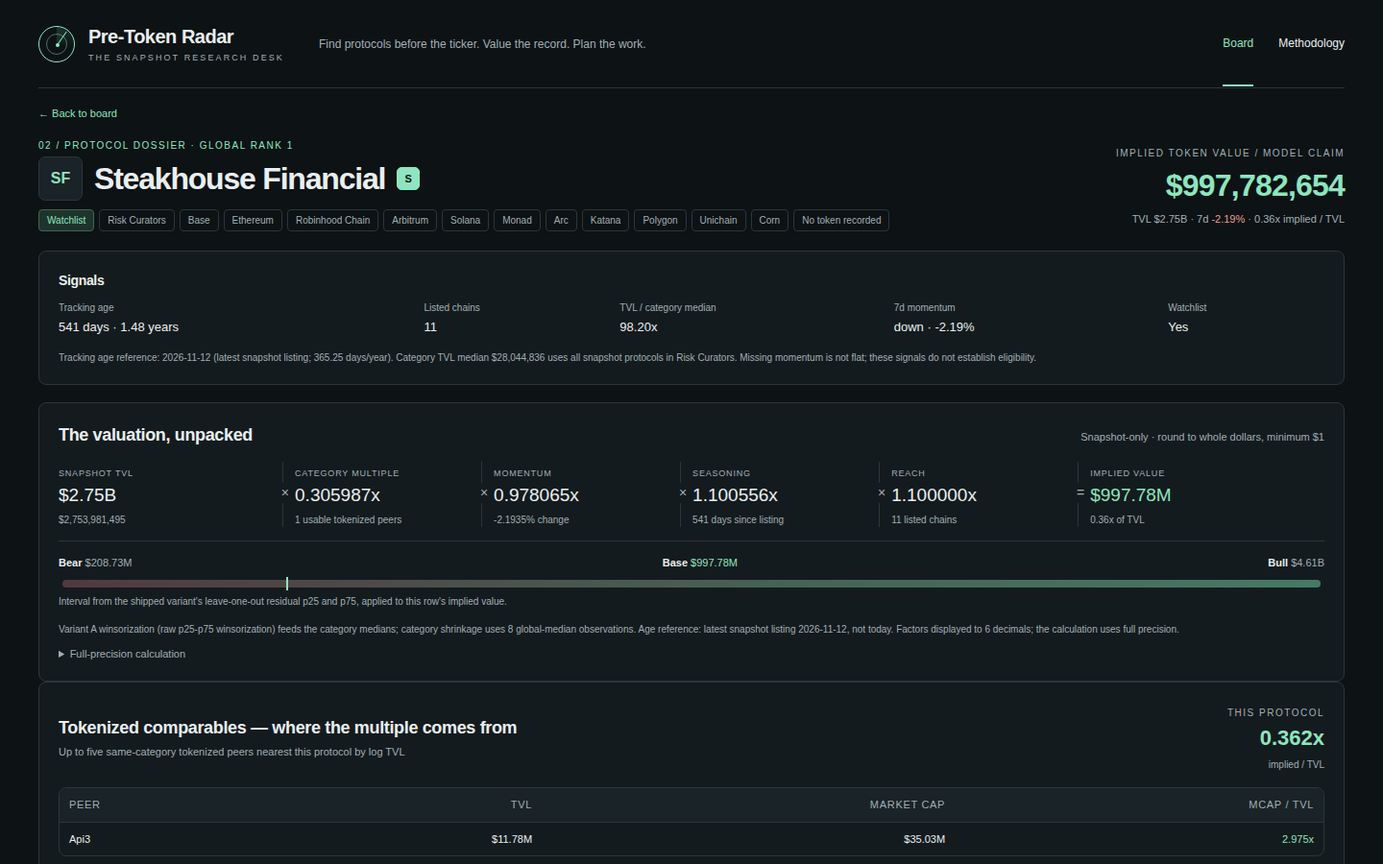
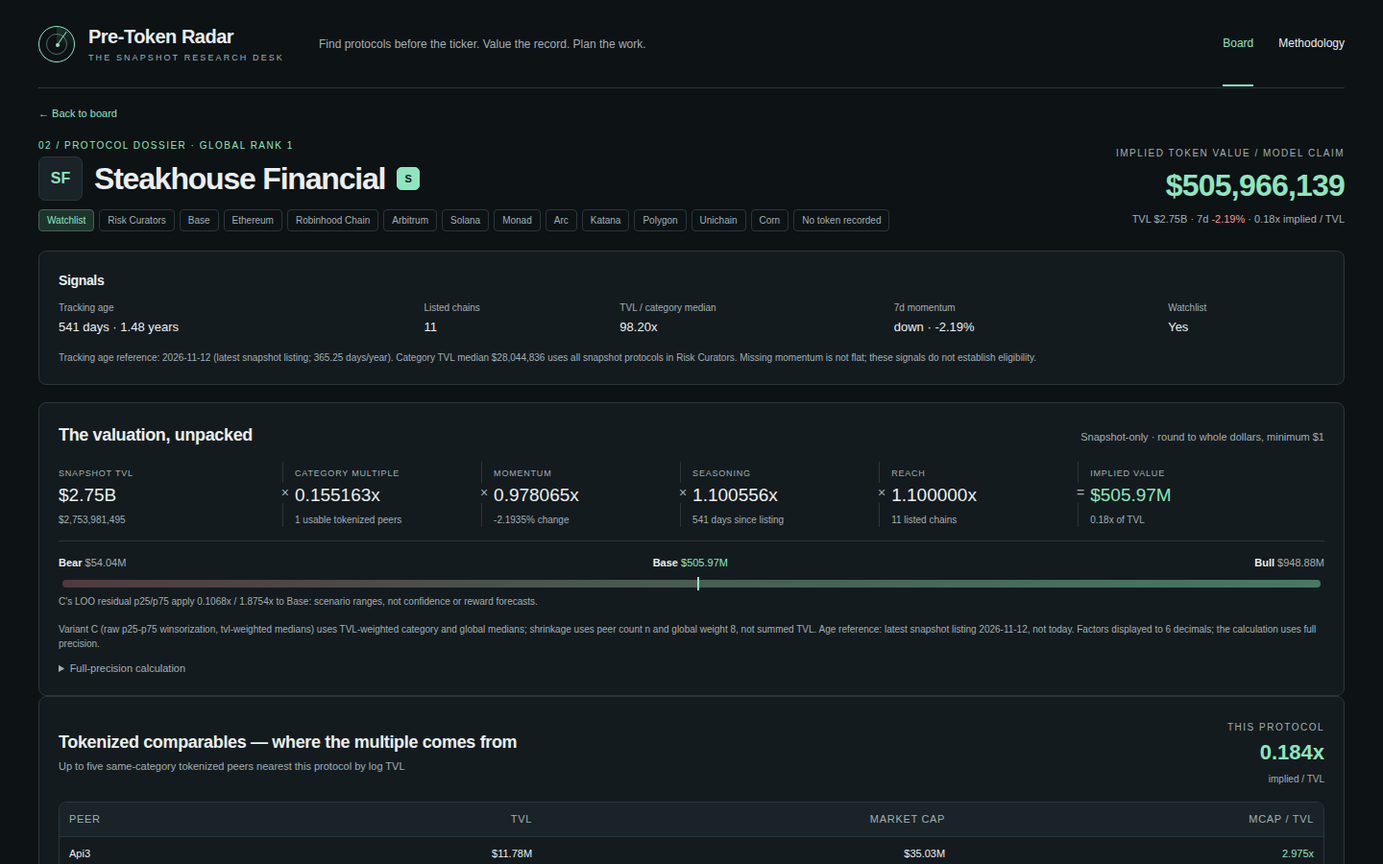
v4: TVL-weighted multiples (variant C) + farm-plan screenshot + calibration evidence

diff --git a/dashboard/app.js b/dashboard/app.js
@@ -230,11 +230,11 @@
   function valuationRange(row) {
     const span = row.bull_usd - row.bear_usd;
     const basePosition = span > 0 ? ((row.implied_value_usd - row.bear_usd) / span) * 100 : 50;
-    return `<div class="range-block"><div class="range-labels"><span><b>Bear</b> ${money(row.bear_usd)}</span><span class="range-base"><b>Base</b> ${money(row.implied_value_usd)}</span><span><b>Bull</b> ${money(row.bull_usd)}</span></div><div class="range-bar" role="img" aria-label="Bear ${money(row.bear_usd)}, base ${money(row.implied_value_usd)}, bull ${money(row.bull_usd)}"><span class="range-fill"></span><span class="range-pin" style="left:${Math.max(1, Math.min(99, basePosition)).toFixed(1)}%"></span></div><small>Interval from the shipped variant's leave-one-out residual p25 and p75, applied to this row's implied value.</small></div>`;
+    return `<div class="range-block"><div class="range-labels"><span><b>Bear</b> ${money(row.bear_usd)}</span><span class="range-base"><b>Base</b> ${money(row.implied_value_usd)}</span><span><b>Bull</b> ${money(row.bull_usd)}</span></div><div class="range-bar" role="img" aria-label="Bear ${money(row.bear_usd)}, base ${money(row.implied_value_usd)}, bull ${money(row.bull_usd)}"><span class="range-fill"></span><span class="range-pin" style="left:${Math.max(1, Math.min(99, basePosition)).toFixed(1)}%"></span></div><small>C's LOO residual p25/p75 apply ${Math.exp(calibration.residual_p25).toFixed(4)}x / ${Math.exp(calibration.residual_p75).toFixed(4)}x to Base: scenario ranges, not confidence or reward forecasts.</small></div>`;
   }
 
   function comparablesPanel(row) {
-    const globalFallback = `No usable tokenized peer in this category; the category multiple falls back to the global median ${multiple(calibration.global_median, 4)}.`;
+    const globalFallback = `No usable tokenized peer in this category; the category multiple falls back to the TVL-weighted global median ${multiple(calibration.global_median, 4)}.`;
     const table = row.comps.length === 0 ? `<p class="caution compact">${escape(globalFallback)}</p>` : `<div class="table-wrap"><table class="comp-table" aria-label="Tokenized comparables"><thead><tr><th>Peer</th><th class="num">TVL</th><th class="num">Market cap</th><th class="num">mcap / TVL</th></tr></thead><tbody>${row.comps.map((peer) => `<tr><td>${escape(peer.name)}</td><td class="num">${money(peer.tvl_usd)}</td><td class="num">${money(peer.mcap_usd)}</td><td class="num positive">${peer.ratio.toFixed(3)}x</td></tr>`).join('')}</tbody></table></div>`;
     return `<section class="panel comps-panel"><div class="panel-heading"><div><h2>Tokenized comparables — where the multiple comes from</h2><small>Up to five same-category tokenized peers nearest this protocol by log TVL</small></div><div class="subject-multiple"><span class="overline">This protocol</span><strong>${multiple(row.implied_multiple, 3)}</strong><small>implied / TVL</small></div></div>${table}</section>`;
   }
@@ -268,15 +268,15 @@
     content.innerHTML = `<a class="back" href="${escape(route({ view: 'board' }))}">← Back to ${state.category || state.chain || state.q || state.watchlist ? 'filtered ' : ''}board</a>
       <section class="hero detail-hero"><div><p class="eyebrow">02 / PROTOCOL DOSSIER · GLOBAL RANK ${row.rank}</p><div class="detail-title">${monogram(row)}<h1>${escape(row.name)}</h1>${tier(row)}</div><div><span class="badge badge-accent">${row.watchlist ? 'Watchlist' : row.below_floor ? 'Below-floor discovery' : 'Extended candidate'}</span><span class="badge">${escape(categoryName(row))}</span>${row.chains.map((chain) => `<span class="badge">${escape(chain)}</span>`).join('')}<span class="badge">No token recorded</span></div></div><div class="detail-value"><span class="overline">Implied token value / model claim</span><strong title="${fullDollars.format(row.implied_value_usd)}">${fullDollars.format(row.implied_value_usd)}</strong><small>TVL ${money(row.tvl_usd)} · 7d ${change(row.change_7d)} · ${multiple(row.implied_multiple)} implied / TVL</small></div></section>
       <section class="panel signals-panel" aria-label="Snapshot data-quality signals"><h2>Signals</h2><dl class="signal-values">${signalValues.map(([label, value]) => `<div><dt>${escape(label)}</dt><dd>${escape(value)}</dd></div>`).join('')}</dl><p class="model-note">Tracking age reference: ${escape(signals.age_reference ?? 'unreported')} (latest snapshot listing; 365.25 days/year). Category TVL median ${fullDollars.format(signals.category_median_tvl_usd)} uses all snapshot protocols in ${escape(categoryName(row))}. Missing momentum is not flat; these signals do not establish eligibility.</p></section>
-      <section class="panel"><div class="panel-heading"><h2>The valuation, unpacked</h2><small>Snapshot-only · round to whole dollars, minimum $1</small></div><div class="formula">${factors.map(([label, value, note], index) => `<div class="factor"><span class="overline">${label}</span><strong class="${index === 5 ? 'positive' : ''}">${value}</strong><small>${escape(note)}</small></div>`).join('')}</div>${valuationRange(row)}<p class="model-note">Variant ${escape(calibration.variant)} winsorization (${escape(calibration.variant_label.toLowerCase())}) feeds the category medians; category shrinkage uses 8 global-median observations. Age reference: latest snapshot listing ${escape(calibration.latest_listed_at ?? 'unreported')}, not today. Factors displayed to 6 decimals; the calculation uses full precision.</p><details><summary>Full-precision calculation</summary><code>max(1, round(${row.tvl_usd} × ${model.category_multiple} × ${model.momentum} × ${model.seasoning} × ${model.reach})) = ${row.implied_value_usd} USD<br>Before rounding: ${model.unrounded_value_usd} USD</code></details></section>
+      <section class="panel"><div class="panel-heading"><h2>The valuation, unpacked</h2><small>Snapshot-only · round to whole dollars, minimum $1</small></div><div class="formula">${factors.map(([label, value, note], index) => `<div class="factor"><span class="overline">${label}</span><strong class="${index === 5 ? 'positive' : ''}">${value}</strong><small>${escape(note)}</small></div>`).join('')}</div>${valuationRange(row)}<p class="model-note">Variant ${escape(calibration.variant)} (${escape(calibration.variant_label.toLowerCase())}) uses TVL-weighted category and global medians; shrinkage uses peer count n and global weight 8, not summed TVL. Age reference: latest snapshot listing ${escape(calibration.latest_listed_at ?? 'unreported')}, not today. Factors displayed to 6 decimals; the calculation uses full precision.</p><details><summary>Full-precision calculation</summary><code>max(1, round(${row.tvl_usd} × ${model.category_multiple} × ${model.momentum} × ${model.seasoning} × ${model.reach})) = ${row.implied_value_usd} USD<br>Before rounding: ${model.unrounded_value_usd} USD</code></details></section>
       ${comparablesPanel(row)}
       <div class="detail-grid"><section class="panel"><div class="panel-heading"><div><h2>A practical farm plan</h2><small>${row.farm_steps.length} steps · primary chain: ${escape(row.chains[0] ?? 'unreported')}</small></div><div class="plan-total"><span class="overline">Plan summary</span><strong>Estimated total: ${usd(row.totals.cost_low)}-${usd(row.totals.cost_high)} · about ${totalTime(row.totals.total_minutes)} across ${row.farm_steps.length} steps</strong></div></div><ol class="farm-list">${row.farm_steps.map((step, index) => {
         const parts = splitStep(step);
         const meta = row.steps_meta[index];
         return `<li class="farm-step"><span class="step-number">${String(index + 1).padStart(2, '0')}</span><div><h3>${escape(meta.title)}</h3><p>${escape(parts.action)}</p><div class="step-budget"><span><b>Cost:</b> ${escape(parts.cost)}</span><span><b>Time:</b> ${escape(parts.time)}</span></div></div></li>`;
       }).join('')}</ol><p class="caution">The estimated total counts primary-chain gas only; capital is reused, not spent again each step. Fees, slippage and secondary-chain gas are excluded. These are conditional playbooks, not verified eligibility; verify documentation before signing. No points program or airdrop is asserted.</p></section>
-      <aside class="side-stack"><section class="panel"><h2>Pre-token peers in this category</h2><div class="peer-stats"><div><strong>#${row.category_rank} / ${row.category_size}</strong><small>Implied-value rank within board category</small></div><div><strong>${model.category_median === null ? '—' : multiple(model.category_median, 3)}</strong><small>Clipped tokenized category median · n=${model.category_n}</small></div></div><ul class="peer-list">${peerPreview.map((peer) => `<li class="${peer.slug === row.slug ? 'selected' : ''}"><a href="${escape(route({ view: 'detail', slug: peer.slug }))}"><span class="rank">#${peer.category_rank}</span><span class="peer-name">${escape(peer.name)}</span><span class="peer-value">${money(peer.implied_value_usd)}</span></a></li>`).join('')}</ul><a class="peer-all" href="${escape(route({ view: 'board', category: categoryName(row), q: '', chain: '', watchlist: false, sort: 'value-desc' }))}">Explore all ${row.category_size} category candidates →</a></section>
-      <section class="panel"><h2>Calibration & record</h2><dl class="brief-list"><div><dt>Global median / usable ratios</dt><dd>${multiple(calibration.global_median, 6)} / ${calibration.global_n}</dd></div><div><dt>Shrunk category multiple</dt><dd>${multiple(model.category_multiple, 6)}</dd></div><div><dt>First tracked</dt><dd>${escape(row.listed_at ?? 'Unreported; age uses 0')}</dd></div><div><dt>Seasoning age</dt><dd>${model.age_days} days / 720-day ramp</dd></div><div><dt>Momentum bounds</dt><dd>0.70x to 1.50x</dd></div><div><dt>Reach cap</dt><dd>1.10x</dd></div></dl><p class="caution">${model.category_n === 0 ? 'No usable category ratios: the global median is the fallback. ' : model.category_n < 5 ? 'Sparse category sample: shrinkage reduces single-peer influence. ' : ''}Listed age is tracking age, not proof of time without a token. Implied value is not liquid market capitalization.</p><a class="peer-all" href="#methodology">Read the complete methodology →</a></section></aside></div>`;
+      <aside class="side-stack"><section class="panel"><h2>Pre-token peers in this category</h2><div class="peer-stats"><div><strong>#${row.category_rank} / ${row.category_size}</strong><small>Implied-value rank within board category</small></div><div><strong>${model.category_median === null ? '—' : multiple(model.category_median, 3)}</strong><small>Clipped category TVL-weighted median · n=${model.category_n}</small></div></div><ul class="peer-list">${peerPreview.map((peer) => `<li class="${peer.slug === row.slug ? 'selected' : ''}"><a href="${escape(route({ view: 'detail', slug: peer.slug }))}"><span class="rank">#${peer.category_rank}</span><span class="peer-name">${escape(peer.name)}</span><span class="peer-value">${money(peer.implied_value_usd)}</span></a></li>`).join('')}</ul><a class="peer-all" href="${escape(route({ view: 'board', category: categoryName(row), q: '', chain: '', watchlist: false, sort: 'value-desc' }))}">Explore all ${row.category_size} category candidates →</a></section>
+      <section class="panel"><h2>Calibration & record</h2><dl class="brief-list"><div><dt>TVL-weighted global median / ratios</dt><dd>${multiple(calibration.global_median, 6)} / ${calibration.global_n}</dd></div><div><dt>Shrunk category multiple</dt><dd>${multiple(model.category_multiple, 6)}</dd></div><div><dt>First tracked</dt><dd>${escape(row.listed_at ?? 'Unreported; age uses 0')}</dd></div><div><dt>Seasoning age</dt><dd>${model.age_days} days / 720-day ramp</dd></div><div><dt>Momentum bounds</dt><dd>0.70x to 1.50x</dd></div><div><dt>Reach cap</dt><dd>1.10x</dd></div></dl><p class="caution">${model.category_n === 0 ? 'No usable category ratios: the TVL-weighted global median is the fallback. ' : model.category_n < 5 ? 'Sparse category sample: shrinkage reduces single-peer influence. ' : ''}Listed age is tracking age, not proof of time without a token. Implied value is not liquid market capitalization.</p><a class="peer-all" href="#methodology">Read the complete methodology →</a></section></aside></div>`;
   }
 
   function renderMethodology() {
@@ -292,18 +292,18 @@
     const residualRange = `<div class="residual-grid"><div><span class="overline">Residual p25</span><strong>${calibration.residual_p25.toFixed(6)}</strong><small>exp = ${Math.exp(calibration.residual_p25).toFixed(4)}x</small></div><div><span class="overline">Residual p75</span><strong>${calibration.residual_p75.toFixed(6)}</strong><small>exp = ${Math.exp(calibration.residual_p75).toFixed(4)}x</small></div><div><span class="overline">Chosen variant</span><strong>${escape(calibration.variant)}</strong><small>${calibration.backtest.mdape_gap_pp.toFixed(3)} pp MdAPE gap</small></div></div>`;
     const auditRows = rows.filter((row) => row.rank <= 10).toSorted((first, second) => first.rank - second.rank).map((row) => `<tr><td>#${row.rank}</td><td><a href="${escape(route({ view: 'detail', slug: row.slug }))}">${escape(row.name)}</a></td><td class="num">${fullDollars.format(row.tvl_usd)}</td><td>${escape(categoryName(row))}</td><td class="num" title="${row.model.category_multiple}">${multiple(row.model.category_multiple, 6)}</td><td class="num" title="${row.model.momentum}">${multiple(row.model.momentum, 6)}</td><td class="num positive">${fullDollars.format(row.implied_value_usd)}</td></tr>`).join('');
     content.innerHTML = `<a class="back" href="#board">← Back to discovery board</a><section class="hero"><div><p class="eyebrow">03 / METHODOLOGY</p><h1>One snapshot. An inspectable model.</h1><p class="subtitle">Every figure derives from the sealed snapshot. No live prices, hardcoded scores or launch predictions.</p></div><div class="snapshot-stamp"><span class="dot"></span>MODEL VERSION<strong>${escape(data.model_version)}</strong></div></section>
-      <section class="panel calibration-panel"><div class="panel-heading"><div><h2>Calibration — leave-one-out evidence</h2><small>Both winsorize variants recompute each category without the target; the metric is predictive, not in-sample.</small></div><div class="calibration-kpis"><div><span class="overline">Shipped median / n</span><strong>${multiple(calibration.global_median, 4)}</strong><small>${calibration.global_n} usable ratios</small></div><div><span class="overline">Within 2x</span><strong>${percent(calibration.backtest.variants.find((variant) => variant.variant === calibration.variant).within_2x)}</strong><small>chosen variant</small></div></div></div>
-      <div class="calibration-grid"><div><div class="table-wrap"><table class="calibration-table" aria-label="Winsorize variant backtest"><thead><tr><th>Variant</th><th class="num">MdAPE</th><th class="num">Within 2x</th><th class="num">Log R²</th></tr></thead><tbody>${variantRows}</tbody></table></div><p class="calibration-reason"><b>Shipped ${escape(calibration.variant)}.</b> ${escape(calibration.backtest.reason)} A clips raw ratios to p25-p75; B clips logs to p5-p95 then exponentiates. Both shrink with k=8; factors are unchanged. Each LOO fold excludes the target from global clips, the global median and category statistics.</p>${residualRange}<p class="model-note">Residual = ln(predicted / actual). MdAPE is median absolute percentage error; within 2x means 0.5–2x actual; log R² = 1 − SSE / SST around mean ln(actual). Quantiles use nearest rank; medians average central observations. Intervals apply residual p25/p75 to base; these are scenario ranges, not confidence or reward forecasts.</p></div>
+      <section class="panel calibration-panel"><div class="panel-heading"><div><h2>Calibration — leave-one-out evidence</h2><small>A/B/C each hold out one of 128 usable protocols and refit on 127; predictions are unrounded, not in-sample.</small></div><div class="calibration-kpis"><div><span class="overline">TVL-weighted median / n</span><strong>${multiple(calibration.global_median, 4)}</strong><small>${calibration.global_n} usable ratios</small></div><div><span class="overline">Within 2x</span><strong>${percent(calibration.backtest.variants.find((variant) => variant.variant === calibration.variant).within_2x)}</strong><small>chosen variant</small></div></div></div>
+      <div class="calibration-grid"><div><div class="table-wrap"><table class="calibration-table" aria-label="A/B/C calibration backtest"><thead><tr><th>Variant</th><th class="num">MdAPE</th><th class="num">Within 2x</th><th class="num">Log R²</th></tr></thead><tbody>${variantRows}</tbody></table></div><p class="calibration-reason"><b>Shipped ${escape(calibration.variant)}.</b> ${escape(calibration.backtest.reason)} A: unweighted medians, 93.05% MdAPE (top-half 157.6%, top-10 520.8%); B: log-space p5-p95 winsorize, 94.21%; C: TVL-weighted medians, 89.24% (top-half 87.4%, top-10 79.9%). Size cohorts score each variant's full LOO residuals using phase-5 TVL-ranked memberships, never size-restricted fits. Unweighted medians let many small protocols set the multiple applied to the largest ones; weighting peers by TVL removes most of that size bias on this snapshot. Each fold excludes the target from clips and medians; shrinkage stays k=8. All other constants (momentum clamp 0.7–1.5, seasoning horizon 720d, reach +0.02/chain capped 1.10) were checked in an 18-cell leave-one-out grid on A; shipped values sit within 0.5pp of the best cell in every dimension.</p>${residualRange}<p class="model-note">Residual = ln(predicted / actual). MdAPE is median absolute percentage error; within 2x means 0.5–2x actual; log R² = 1 − SSE / SST around mean ln(actual). Quantiles use unweighted nearest rank. C's medians select the smallest clipped ratio reaching ≥50% cumulative peer TVL; A/B and error medians average central observations. Intervals apply exp(residual p25/p75) to Base: scenario ranges, not confidence or reward forecasts. This is sealed-snapshot evidence, not out-of-sample validation.</p></div>
       <div><h3 class="subhead">Top board categories by TVL</h3><div class="multiple-bars">${topCategories.map((entry) => `<div class="multiple-bar"><div class="bar-label"><span>${escape(entry.group.category ?? 'Uncategorized')}</span><span>${entry.count} protocols · ${multiple(entry.group.multiple, 3)}</span></div><div class="bar-track"><span style="width:${Math.max(2, (entry.group.multiple / maxMultiple) * 100).toFixed(1)}%"></span></div></div>`).join('')}</div><p class="model-note">Bar length is the shipped category multiple, scaled to the largest shown. Counts are board protocols, not calibration observations.</p></div></div></section>
       <section class="panel audit-panel"><div class="panel-heading"><div><h2>Top-10 ranking audit</h2><small>The actual board leaders, with the category multiple and momentum applied to each snapshot TVL.</small></div></div><div class="table-wrap"><table class="audit-table" aria-label="Top-10 valuation audit"><thead><tr><th>Rank</th><th>Protocol</th><th class="num">TVL</th><th>Category</th><th class="num">Category multiple</th><th class="num">Momentum factor</th><th class="num">Implied value</th></tr></thead><tbody>${auditRows}</tbody></table></div><p class="model-note">Dollar amounts are exact. Factors show six decimals; hover for full precision. Seasoning and reach also apply: open a protocol for its complete calculation. Global rank uses implied value, then TVL, then slug.</p></section>
       <div class="method-grid"><div><section class="panel"><h2>How implied value is built</h2><code class="formula-code">implied USD = max(1, round(TVL × category multiple × momentum × seasoning × reach))</code><ol>
-        <li><b>Category multiple:</b> (n × category median + 8 × global median) / (n + 8). Tokenized means either gecko_id or symbol is recorded. Only finite, strictly positive reported market caps and positive TVL enter the medians. Variant ${escape(calibration.variant)} winsorizes (${escape(calibration.variant_label.toLowerCase())}); the shipped clip bounds are ${multiple(calibration.clip_low, 4)} to ${multiple(calibration.clip_high, 4)}. A category with no usable ratios uses the global median.</li>
+        <li><b>Category multiple:</b> (n × TVL-weighted category median + 8 × TVL-weighted global median) / (n + 8), n = peer count, not TVL. Tokenized means either gecko_id or symbol is recorded. Only finite, strictly positive reported market caps and positive TVL enter the medians. Variant ${escape(calibration.variant)} (${escape(calibration.variant_label.toLowerCase())}) retains A's unweighted nearest-rank p25/p75 clip bounds, ${multiple(calibration.clip_low, 4)} to ${multiple(calibration.clip_high, 4)}. A category with no usable ratios uses the TVL-weighted global median.</li>
         <li><b>Momentum:</b> clamp(1 + change_7d / 100, 0.7, 1.5). Unreported seven-day change counts as 0. Growth is TVL change, not price performance.</li>
         <li><b>Seasoning:</b> 0.8 + 0.4 × min(age_days / 720, 1). Age is the day difference between listed_at and the latest listed_at in the snapshot (${escape(calibration.latest_listed_at ?? 'none')}); missing listing dates use age 0.</li>
         <li><b>Reach:</b> min(1 + 0.02 × (number of chains − 1), 1.10). Chain count is the snapshot array's length, not a claim about users.</li>
         <li><b>Ranking:</b> whole-dollar implied value descending, then TVL descending, then slug ascending. Ranks stay 1..N. S covers the top 10; A ranks 11–40; B the rest. These are value tiers, not launch signals.</li>
       </ol></section><section class="panel"><h2>What is included — and what is not known</h2><p>All ${data.watchlist_size} watchlist protocols are retained. Additional candidates record no token, pass observable category and name exclusions, and may sit below the ${money(data.floor_usd)} floor. This run ranks ${rows.length}, including ${data.early_size} below the floor.</p><p class="caution">Exclude Bridge, Canonical Bridge, Liquid Staking, Liquid Restaking, Restaked BTC and CEX; wrapped/staked/staking products; version-suffixed names; and exchange-prefixed names. If candidates exceed 240, keep every watchlist row and fill by implied value.</p></section><section class="panel"><h2>Farm plans are playbooks, not snapshot facts</h2><p>Each protocol gets 4–8 conditional steps naming that protocol and a chain from its record. Product-type playbooks cover vault deposits, LP positions, supply/borrow, restaking, bridge-and-use and other category actions. Four-plus chains add a bridge step; seven-day change ≥15% adds crowding or ≤−15% adds outflow investigation first; age ≥365 days adds TGE-near review or <90 days adds early-multiplier review. Every plan ends with eligibility snapshot and claim-procedure verification, without asserting a program exists. Large TVL (≥$1B) budgets $250 with a dilution warning; $100M–$1B $100; below that $50 with smaller tickets acceptable.</p><p class="caution">Gas is an authored per-chain assumption, not a snapshot field. Ethereum $8–$35; Arbitrum, Base, Optimism, zkSync, Linea, Scroll, Blast and Mantle $0.10–$0.80; BSC $0.20–$1.00; Polygon $0.01–$0.10; Solana, Sui and Aptos $0.01–$0.05; Tron $0.50–$2.00; other chains $0.50–$5.00. Every step uses its protocol's primary-chain range.</p><p class="caution">TVL is not revenue. Peer ratios have selection bias and sparse coverage. Tracking age is not operating age. No launch date, points eligibility or return is known. “No token recorded” is a data classification, not proof that a token does not exist.</p></section></div>
-      <aside><section class="panel"><h2>Calibration inputs</h2><div class="peer-stats"><div><strong>${multiple(calibration.global_median, 6)}</strong><small>Global clipped median mcap / TVL</small></div><div><strong>${calibration.global_n}</strong><small>Usable positive ratios</small></div></div><dl class="brief-list"><div><dt>Winsor clip floor</dt><dd>${multiple(calibration.clip_low, 6)}</dd></div><div><dt>Winsor clip ceiling</dt><dd>${multiple(calibration.clip_high, 6)}</dd></div><div><dt>Snapshot protocols scanned</dt><dd>${data.protocols_scanned}</dd></div><div><dt>Token-recorded protocols excluded</dt><dd>${data.tokenized_count}</dd></div></dl><p class="caution">The whole table is computed at runtime from snapshot records, never a hardcoded multiple table.</p></section><section class="panel"><h2>Board category multiples</h2><div class="table-wrap"><table class="calibration-table" aria-label="Runtime category calibration"><thead><tr><th>Category</th><th class="num">n</th><th class="num">Median</th><th class="num">Shrunk</th></tr></thead><tbody>${boardCategories.map((group) => `<tr><td>${escape(group.category ?? 'Uncategorized')}</td><td class="num">${group.n}</td><td class="num">${group.median === null ? '—' : multiple(group.median, 3)}</td><td class="num positive">${multiple(group.multiple, 3)}</td></tr>`).join('')}</tbody></table></div></section></aside></div>`;
+      <aside><section class="panel"><h2>Calibration inputs</h2><div class="peer-stats"><div><strong>${multiple(calibration.global_median, 6)}</strong><small>Global clipped TVL-weighted median mcap / TVL</small></div><div><strong>${calibration.global_n}</strong><small>Usable positive ratios</small></div></div><dl class="brief-list"><div><dt>Winsor clip floor</dt><dd>${multiple(calibration.clip_low, 6)}</dd></div><div><dt>Winsor clip ceiling</dt><dd>${multiple(calibration.clip_high, 6)}</dd></div><div><dt>Snapshot protocols scanned</dt><dd>${data.protocols_scanned}</dd></div><div><dt>Token-recorded protocols excluded</dt><dd>${data.tokenized_count}</dd></div></dl><p class="caution">The whole table is computed at runtime from snapshot records, never a hardcoded multiple table.</p></section><section class="panel"><h2>Board category multiples</h2><div class="table-wrap"><table class="calibration-table" aria-label="Runtime category calibration"><thead><tr><th>Category</th><th class="num">n</th><th class="num">TVL-weighted median</th><th class="num">Shrunk</th></tr></thead><tbody>${boardCategories.map((group) => `<tr><td>${escape(group.category ?? 'Uncategorized')}</td><td class="num">${group.n}</td><td class="num">${group.median === null ? '—' : multiple(group.median, 3)}</td><td class="num positive">${multiple(group.multiple, 3)}</td></tr>`).join('')}</tbody></table></div></section></aside></div>`;
   }
   function render() {
     state = readHash();

diff --git a/lib/model.ts b/lib/model.ts
@@ -4,9 +4,9 @@ import type { StepMeta } from './farm-plans.ts';
 
 /**
  * Snapshot valuation. Quantiles use nearest rank: sorted[ceil(p * n) - 1].
- * Variant A clips raw mcap/TVL ratios to global p25..p75; variant B clips ln(ratio) to
- * global p5..p95 before exponentiating. Both tune toward the median of their clipped set.
- * Category multiple = (n * category clipped median + 8 * global clipped median) / (n + 8).
+ * A clips raw mcap/TVL ratios to unweighted global p25..p75; B clips ln(ratio) to
+ * global p5..p95 before exponentiating. C retains A's clips and TVL-weights the medians.
+ * C multiple = (n * category TVL-weighted median + 8 * global TVL-weighted median) / (n + 8), n = peer count.
  * Momentum = clamp(1 + change_7d / 100, 0.7, 1.5); missing change is zero.
  * Age is days from listed_at to the latest listed_at in the snapshot; missing age is zero.
  * Seasoning = 0.8 + 0.4 * min(age / 720, 1).
@@ -24,7 +24,7 @@ export const MODEL_CONSTANTS = {
   reach_cap: 1.10,
 };
 
-export type WinsorVariant = 'A' | 'B';
+export type WinsorVariant = 'A' | 'B' | 'C';
 
 export interface CategoryCalibration {
   category: string | null;
@@ -181,7 +181,7 @@ function fitCalibration(snapshot: Snapshot, variant: WinsorVariant, excludedSlug
   let clipProbLow: number;
   let clipProbHigh: number;
   let clipped: number[];
-  if (variant === 'A') {
+  if (variant !== 'B') {
     const sorted = sortedNumbers(raw);
     clipProbLow = 0.25;
     clipProbHigh = 0.75;
@@ -198,12 +198,25 @@ function fitCalibration(snapshot: Snapshot, variant: WinsorVariant, excludedSlug
     clipHigh = Math.exp(logHigh);
     clipped = raw.map((ratio) => Math.exp(Math.max(logLow, Math.min(logHigh, Math.log(ratio)))));
   }
-  const globalMedian = median(clipped);
-  const groups = new Map<string | null, number[]>();
+  const peers = usable.map((protocol, index) => ({ ratio: clipped[index]!, tvl_usd: protocol.tvl_usd }));
+  const weightedMedian = (values: typeof peers): number => {
+    const totalWeight = values.reduce((total, peer) => total + peer.tvl_usd, 0);
+    const sorted = values.toSorted((first, second) => first.ratio - second.ratio);
+    let cumulativeWeight = 0;
+    for (const peer of sorted) {
+      cumulativeWeight += peer.tvl_usd;
+      if (cumulativeWeight >= totalWeight / 2) return peer.ratio;
+    }
+    throw new Error('Weighted median did not reach half the total TVL weight');
+  };
+  const peerMedian = (values: typeof peers): number => variant === 'C'
+    ? weightedMedian(values) : median(values.map((peer) => peer.ratio));
+  const globalMedian = peerMedian(peers);
+  const groups = new Map<string | null, typeof peers>();
   for (const category of allCategories) groups.set(category, []);
-  for (const [index, protocol] of usable.entries()) groups.get(protocol.category)!.push(clipped[index]!);
+  for (const [index, protocol] of usable.entries()) groups.get(protocol.category)!.push(peers[index]!);
   const categories = [...groups.entries()].sort(([first], [second]) => compareText(first ?? '', second ?? '')).map(([category, values]) => {
-    const categoryMedian = values.length ? median(values) : null;
+    const categoryMedian = values.length ? peerMedian(values) : null;
     return {
       category,
       n: values.length,
@@ -251,7 +264,7 @@ function runBacktest(snapshot: Snapshot, latest: string | null, variant: WinsorV
   return {
     metrics: {
       variant,
-      label: variant === 'A' ? 'A · raw p25-p75 clip' : 'B · log p5-p95 clip',
+      label: variant === 'C' ? 'C · TVL-weighted p25-p75 clip' : variant === 'A' ? 'A · unweighted p25-p75 clip' : 'B · log p5-p95 clip',
       mdape,
       within_2x: within,
       log_r2: 1 - ssResidual / ssTotal,
@@ -266,20 +279,17 @@ export function computeSnapshotCalibration(snapshot: Snapshot): Calibration {
   const latest = listingDates.at(-1) ?? null;
   const runA = runBacktest(snapshot, latest, 'A');
   const runB = runBacktest(snapshot, latest, 'B');
-  const gap = Math.abs(runA.metrics.mdape - runB.metrics.mdape);
-  const chosen: WinsorVariant = gap < 0.005 ? 'A' : runB.metrics.mdape < runA.metrics.mdape ? 'B' : 'A';
-  const reason = gap < 0.005
-    ? `Variant A shipped: the MdAPE gap is ${(gap * 100).toFixed(3)} percentage points, under the 0.5-point churn threshold, so the simpler raw winsorization is retained.`
-    : chosen === 'B'
-      ? `Variant B shipped: its LOO MdAPE is ${(gap * 100).toFixed(3)} percentage points lower than variant A.`
-      : `Variant A shipped: its LOO MdAPE is ${(gap * 100).toFixed(3)} percentage points lower than variant B.`;
-  const chosenRun = chosen === 'A' ? runA : runB;
+  const runC = runBacktest(snapshot, latest, 'C');
+  const gap = Math.min(runA.metrics.mdape, runB.metrics.mdape) - runC.metrics.mdape;
+  const chosen: WinsorVariant = 'C';
+  const reason = `Variant C selected by the same full-snapshot LOO protocol: its MdAPE is ${(runC.metrics.mdape * 100).toFixed(2)}%, ${(gap * 100).toFixed(3)} percentage points below the better A/B control. TVL-weighted category and global medians retain A's unweighted p25-p75 clips and count-based shrinkage with k=8.`;
+  const chosenRun = runC;
   const fitted = fitCalibration(snapshot, chosen, null);
   const residuals = sortedNumbers(chosenRun.residuals);
   return {
     constants: MODEL_CONSTANTS,
     variant: chosen,
-    variant_label: chosen === 'A' ? 'Raw p25-p75 winsorization' : 'Log p5-p95 winsorization',
+    variant_label: 'Raw p25-p75 winsorization, TVL-weighted medians',
     global_n: fitted.globalN,
     global_median: fitted.globalMedian,
     clip_low: fitted.clipLow,
@@ -293,7 +303,7 @@ export function computeSnapshotCalibration(snapshot: Snapshot): Calibration {
       chosen,
       reason,
       mdape_gap_pp: gap * 100,
-      variants: [runA.metrics, runB.metrics],
+      variants: [runA.metrics, runB.metrics, runC.metrics],
     },
     residual_p25: nearestRank(residuals, 0.25),
     residual_p75: nearestRank(residuals, 0.75),

diff --git a/README.md b/README.md
@@ -12,12 +12,28 @@ The radar reads one sealed snapshot of 758 protocols and ranks the ones with no 
 
 Every figure is derived from the snapshot itself at run time; nothing is hardcoded per protocol.
 
-- For tokenized protocols with a usable reported market cap, take the ratio mcap / TVL. Clip extreme ratios to the middle half of all ratios (the global 25th–75th percentile), then take each category's median.
-- Shrink each category multiple toward the global median: `(n * category median + 8 * global median) / (n + 8)`, so a category with one observation cannot dominate.
+- For tokenized protocols with a usable reported market cap, take the ratio mcap / TVL. Winsorize at unweighted nearest-rank global p25/p75, then take each category's TVL-weighted median: sort clipped ratios ascending and select the smallest ratio whose cumulative peer TVL reaches at least 50% of total peer TVL.
+- Shrink each category multiple toward the TVL-weighted global median over all usable peers: `(n * weighted category median + 8 * weighted global median) / (n + 8)`, where `n` is peer count, not TVL. Categories without usable peers use the weighted global median.
 - Adjust per protocol: momentum from 7-day TVL change (clamped), seasoning from how long the protocol has been listed, and a small reach factor for multi-chain protocols.
 - `implied_value_usd = TVL * category multiple * momentum * seasoning * reach`, rounded to whole dollars.
 
-The board carries all 40 watchlist protocols plus every other pre-token protocol that passes the snapshot's observable eligibility rules — 198 rows on this snapshot. Each row ships five to eight farm steps, generated from a per-category playbook keyed to the protocol's own product type and branched by its own record — multi-chain protocols gain a bridge step, fast growers a crowding step, protocols with heavy 7-day outflows an investigation step first, old protocols a TGE-timing step. Every step names the protocol and one of its own chains. Gas costs follow the protocol's primary chain (Ethereum mainnet is priced like Ethereum mainnet, Solana like Solana), position sizes follow its TVL tier, every step carries a dollar cost and a time commitment, and each plan closes with an eligibility-snapshot and claim-procedure step for that protocol. The model is validated inside the run: a leave-one-out backtest over the snapshot's tokenized protocols (both winsorize variants scored, the better one shipped) produces the residual range behind each protocol's Bear / Base / Bull interval, and every detail view lists the tokenized comparables its category multiple was derived from. The board header carries a KPI strip (protocols ranked, watchlist coverage, median and total implied value, snapshot date) and category pills showing each category's tokenization rate in the snapshot; every dossier opens with a Signals block (tracking age, chain count, TVL against its category median, 7-day momentum, watchlist status); and the methodology page ends with a Top-10 ranking audit table exposing the exact TVL, category multiple and momentum factor behind each leading row.
+The board carries all 40 watchlist protocols plus every other pre-token protocol that passes the snapshot's observable eligibility rules — 198 rows on this snapshot. Each row ships five to eight farm steps, generated from a per-category playbook keyed to the protocol's own product type and branched by its own record — multi-chain protocols gain a bridge step, fast growers a crowding step, protocols with heavy 7-day outflows an investigation step first, old protocols a TGE-timing step. Every step names the protocol and one of its own chains. Gas costs follow the protocol's primary chain (Ethereum mainnet is priced like Ethereum mainnet, Solana like Solana), position sizes follow its TVL tier, every step carries a dollar cost and a time commitment, and each plan closes with an eligibility-snapshot and claim-procedure step for that protocol. The model is validated inside the run: a leave-one-out backtest over the snapshot's tokenized protocols (A/B/C scored; approved variant C shipped) produces the residual range behind each protocol's Bear / Base / Bull interval, and every detail view lists tokenized comparables from its category. The board header carries a KPI strip (protocols ranked, watchlist coverage, median and total implied value, snapshot date) and category pills showing each category's tokenization rate in the snapshot; every dossier opens with a Signals block (tracking age, chain count, TVL against its category's unweighted TVL median, 7-day momentum, watchlist status); and the methodology page ends with a Top-10 ranking audit table exposing the exact TVL, category multiple and momentum factor behind each leading row.
+
+## Calibration evidence
+
+The same full-snapshot leave-one-out protocol holds out each of 128 usable tokenized protocols, recomputes every statistic from the other 127, and scores unrounded predictions. MdAPE is median absolute percentage error. Size cohorts use the original phase-5 TVL-ranked memberships and each variant's full-population LOO residuals; fits are never restricted to those cohorts.
+
+| Variant | Overall MdAPE | Top-half MdAPE (64) | Top-10 MdAPE |
+| --- | ---: | ---: | ---: |
+| A — unweighted medians, raw p25/p75 winsorization | 93.05% | 157.6% | 520.8% |
+| B — log-space p5/p95 winsorization | 94.21% | — | — |
+| C — TVL-weighted medians, A's clipping; selected | 89.24% | 87.4% | 79.9% |
+
+Unweighted medians let many small protocols set the multiple applied to the largest ones; weighting peers by TVL removes most of that size bias on this snapshot. C is selected by the same leave-one-out protocol; this is not out-of-sample validation.
+
+All other constants (momentum clamp 0.7–1.5, seasoning horizon 720d, reach +0.02/chain capped 1.10) were checked in an 18-cell leave-one-out grid on A; the shipped values sit within 0.5pp of the best cell in every dimension.
+
+Bear / Bull multipliers are now **0.107x / 1.875x** (full precision 0.10681491670936x / 1.8753840044828036x), from C's nearest-rank LOO log-residual p25/p75, −2.236657692645632 / 0.6288134408440561, exponentiated and applied to Base. These are scenario ranges, not confidence or reward forecasts.
 
 ## Run it
 
